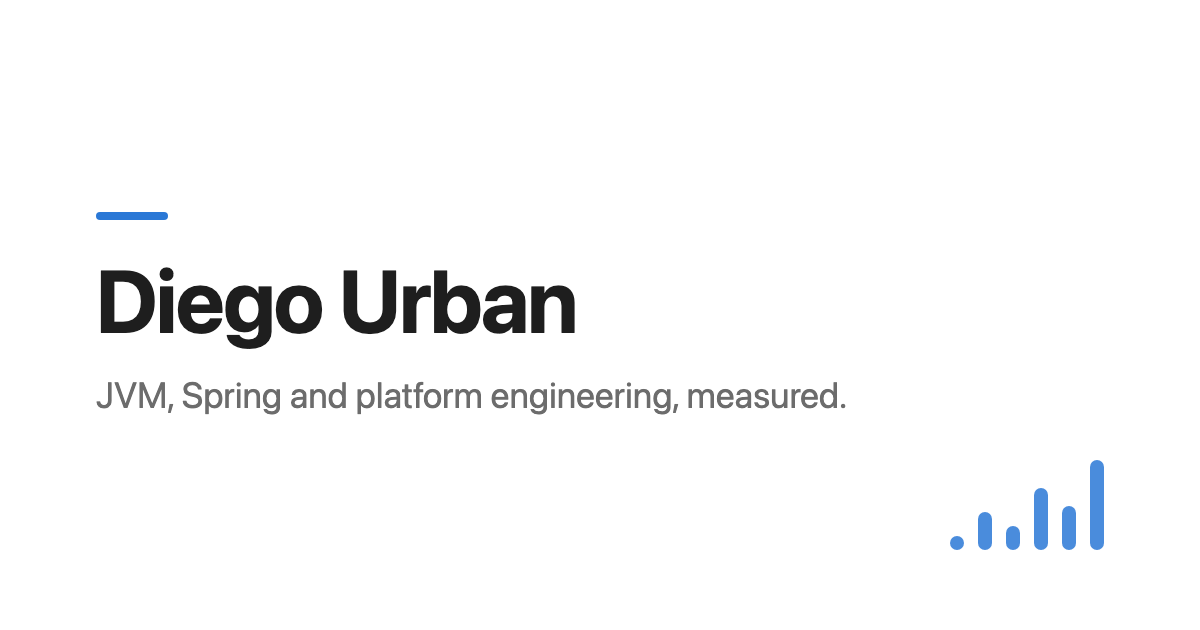
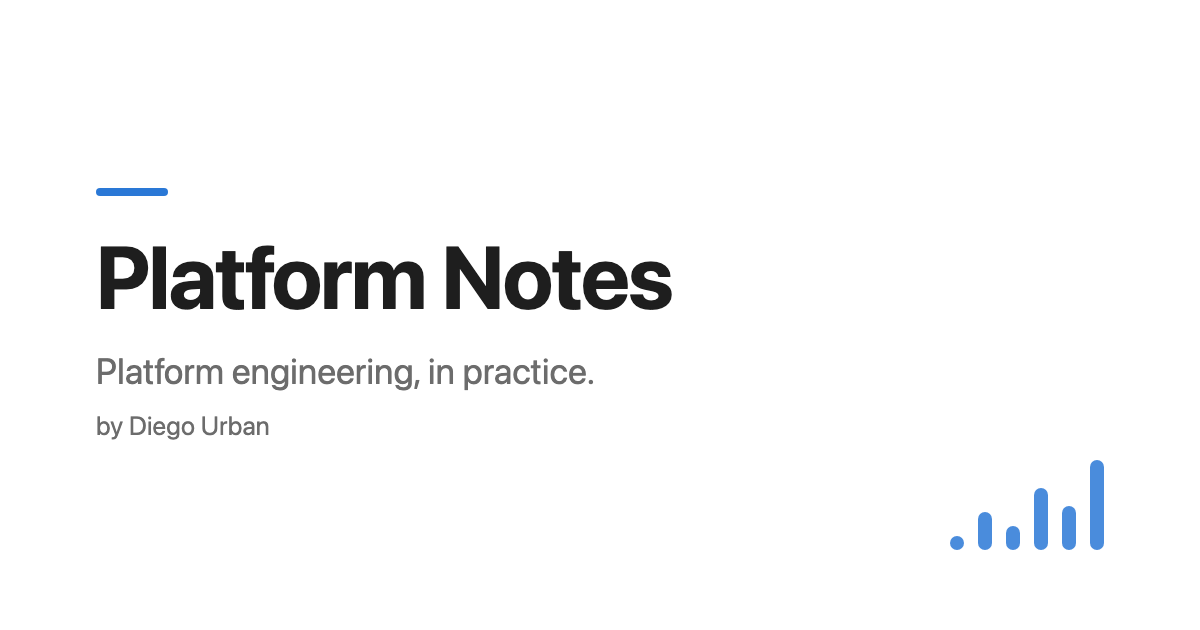
Rename the blog to Platform Notes for platformnotes.dev
- Site title Platform Notes; tagline "Platform engineering, in practice"
  with the topics (JVM, Spring Boot, PostgreSQL, CI/CD, caching and
  authorization); the home intro covers the same scope.
- Site card regenerated with the new name; the default-CDS post card now
  prints platformnotes.dev instead of diegourban.github.io.
- README documents the custom domain: GitHub-verified, apex A/AAAA and www
  CNAME at Cloudflare in DNS-only mode, base URL taken from Pages.

Changed region(s): [[0.0617, 0.3921, 0.7092, 0.6937], [0.0617, 0.2714, 0.1542, 0.3619]]

diff --git a/scripts/site-card.html b/scripts/site-card.html
@@ -13,6 +13,7 @@
   .accent { width: 72px; height: 8px; border-radius: 4px; background: #2a78d6; margin-bottom: 36px; }
   h1 { margin: 0; font-size: 88px; line-height: 1; color: rgb(30, 30, 30); letter-spacing: -1.5px; }
   p { margin: 28px 0 0; font-size: 36px; line-height: 1.3; color: rgb(108, 108, 108); max-width: 900px; }
+  p.by { margin-top: 14px; font-size: 26px; }
   .dots { position: absolute; right: 96px; bottom: 80px; display: flex; gap: 14px; align-items: flex-end; }
   .dots span { width: 14px; border-radius: 7px; background: #2a78d6; opacity: .85; }
 </style>
@@ -20,8 +21,9 @@
 <body>
 <div class="card">
   <div class="accent"></div>
-  <h1>Diego Urban</h1>
-  <p>JVM, Spring and platform engineering, measured.</p>
+  <h1>Platform Notes</h1>
+  <p>Platform engineering, in practice.</p>
+  <p class="by">by Diego Urban</p>
 </div>
 <div class="dots" aria-hidden="true">
   <span style="height:14px"></span><span style="height:38px"></span><span style="height:24px"></span>

diff --git a/benchmarks/default-cds/cover.html b/benchmarks/default-cds/cover.html
@@ -24,7 +24,7 @@
   <h1>Is anything switching off your JVM's<br>free startup optimisation?</h1>
   <p class="key">Removing <b>-Xshare:off</b>: <b id="pooled"></b> faster startup, <b>5–7 MB</b> less private memory per JVM</p>
   <figure class="cp-chart chart"><div class="cp-plot" data-chart="paired-shift"></div></figure>
-  <div class="site">diegourban.github.io</div>
+  <div class="site">platformnotes.dev</div>
 </div>
 <script src="../../assets/js/vendor/d3-7.9.0.min.js"></script>
 <script src="../../assets/js/charts/common.js"></script>

diff --git a/README.md b/README.md
@@ -1,6 +1,6 @@
-# diegourban.github.io
+# Platform Notes (platformnotes.dev)
 
-A static site built with [Hugo](https://gohugo.io/) and the [PaperMod](https://github.com/adityatelange/hugo-PaperMod) theme, published to <https://diegourban.github.io/> by GitHub Pages on every push to `master`.
+A static site built with [Hugo](https://gohugo.io/) and the [PaperMod](https://github.com/adityatelange/hugo-PaperMod) theme, published to <https://platformnotes.dev/> by GitHub Pages on every push to `master`.
 
 Every post with numbers ships its scripts and raw data in `benchmarks/<slug>/`, so any reader can reproduce them.
 
@@ -60,7 +60,7 @@ python3 make_charts.py   # charts.json
 
   | Where | Link |
   |---|---|
-  | LinkedIn | `https://diegourban.github.io/posts/<slug>/?ref=linkedin` |
+  | LinkedIn | `https://platformnotes.dev/posts/<slug>/?ref=linkedin` |
   | dev.to | `?ref=devto` |
   | Java Annotated Monthly | `?ref=jam` |
   | JVM Weekly | `?ref=jvmweekly` |
@@ -77,7 +77,11 @@ python3 make_charts.py   # charts.json
 
 GitHub Pages uses **Settings → Pages → Source = GitHub Actions**. The workflow builds with Hugo and publishes on every push to `master`, or manually from **Actions → Deploy Hugo site to Pages → Run workflow**.
 
-Custom domain (optional): **Settings → Pages → Custom domain**, plus a `CNAME` record in your DNS pointing to `diegourban.github.io`.
+**Custom domain:** `platformnotes.dev`, registered at Cloudflare.
+- **Ownership:** verified on the GitHub account (profile → Settings → Pages → verified domains) with a TXT record, so no other account can claim it.
+- **DNS, all DNS only (grey cloud):** the apex has 4 `A` records (`185.199.108.153` to `185.199.111.153`) and 4 `AAAA` records (`2606:50c0:8000::153` to `2606:50c0:8003::153`); `www` is a `CNAME` to `diegourban.github.io`. Cloudflare's proxy (orange cloud) stops GitHub from issuing the HTTPS certificate.
+- **Repo setting:** Settings → Pages → Custom domain = `platformnotes.dev`, with Enforce HTTPS on. `diegourban.github.io` redirects to it.
+- **Base URL:** the workflow takes it from Pages (`steps.pages.outputs.base_url`), so canonical URLs, the sitemap and `og:url` follow the custom domain without code changes.
 
 The previous site (a 2017 Bootstrap CV page) is still in the history of `master`.
 
